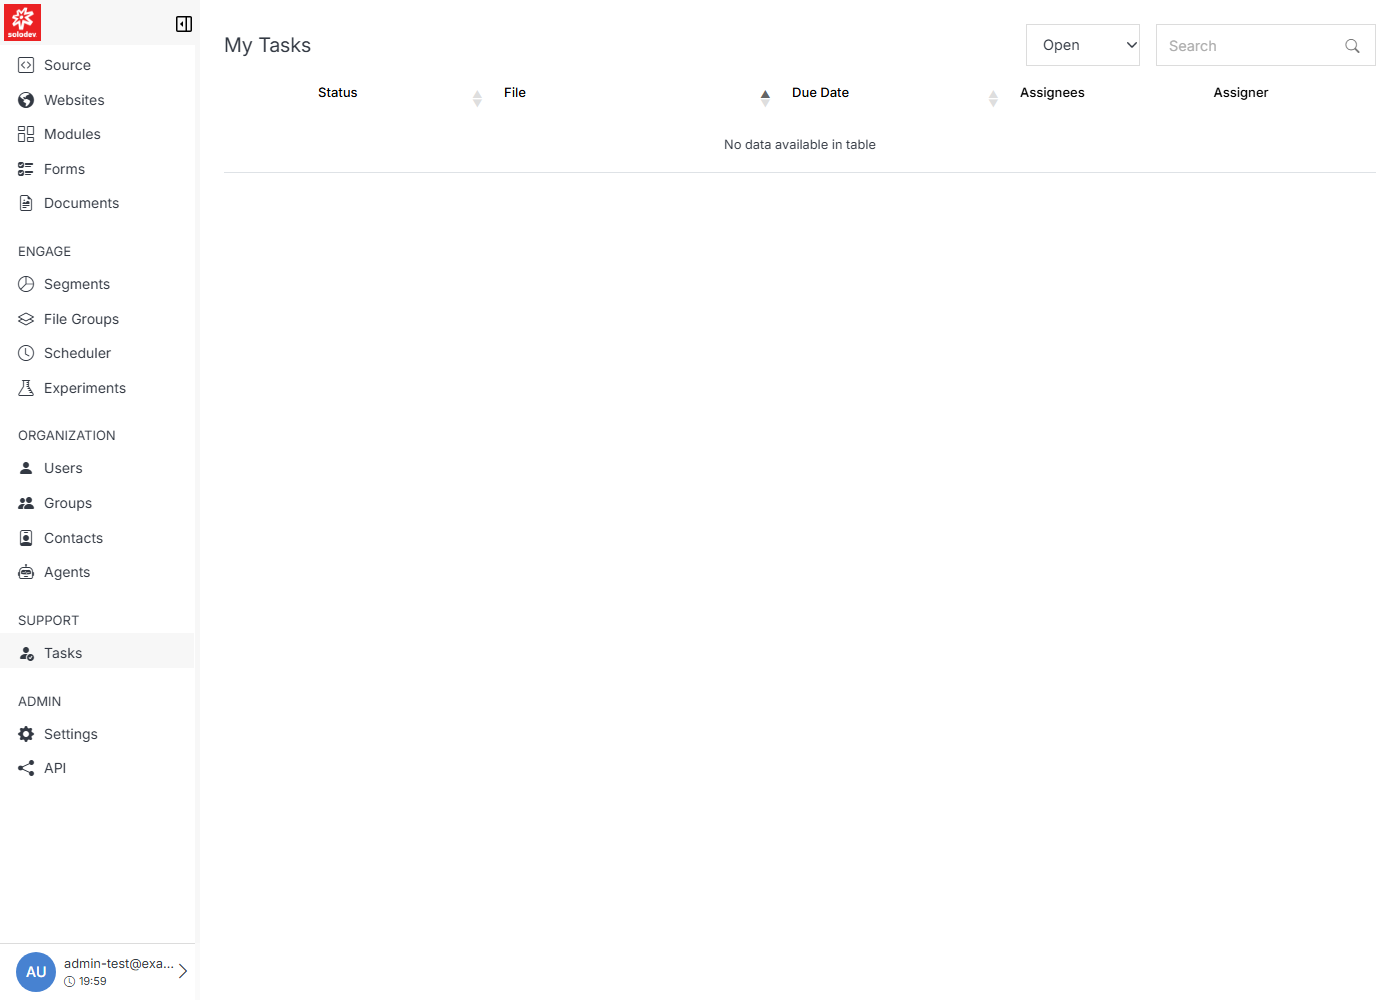
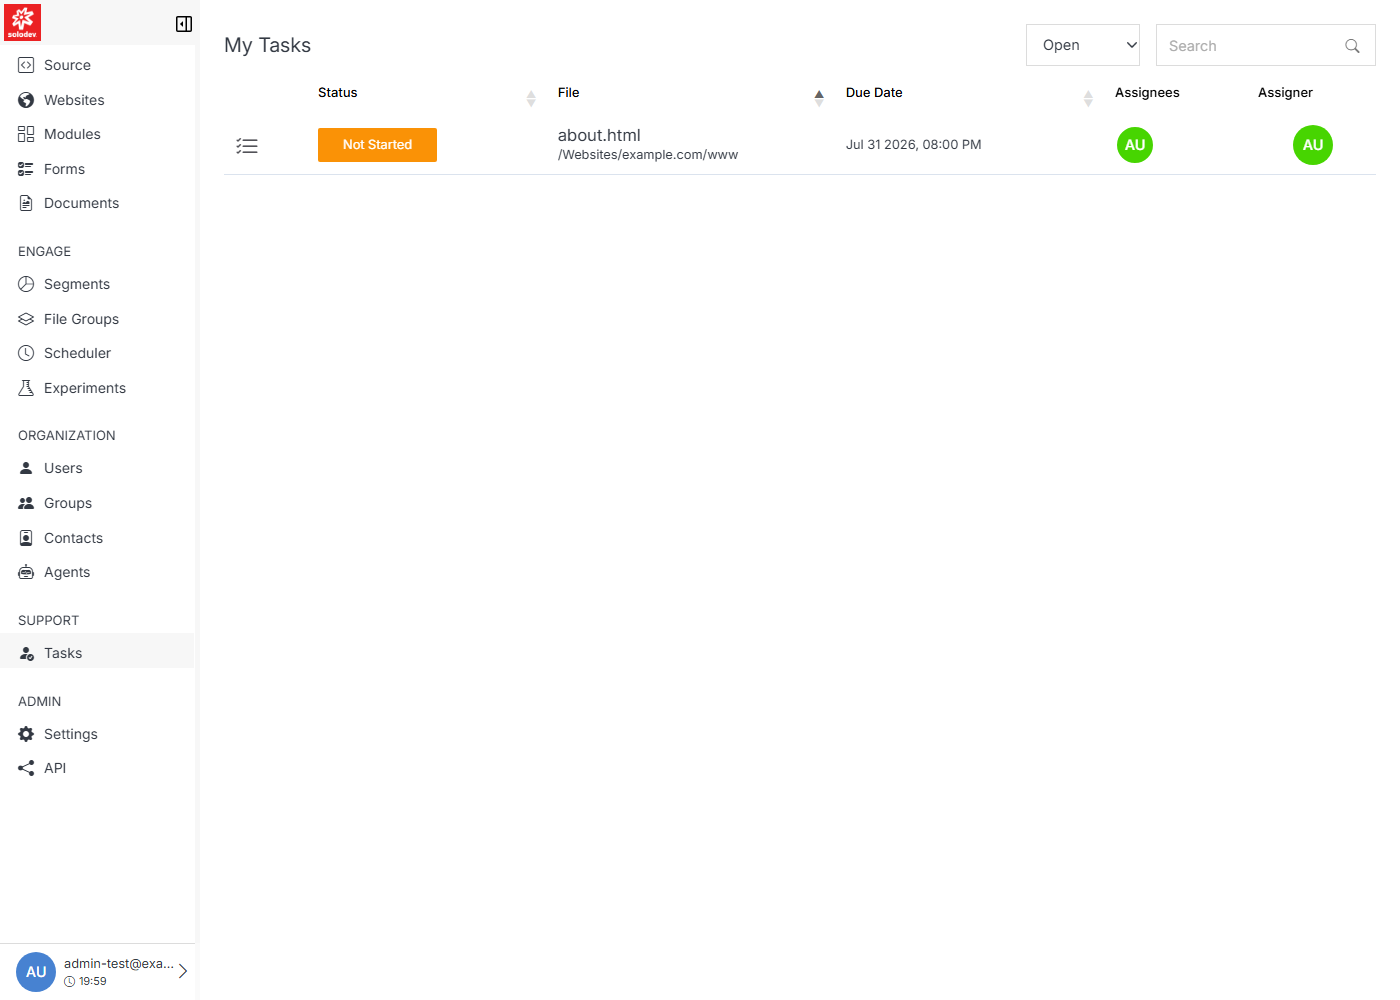
docs(support): demo on an HTML page, show a real populated task list
Recaptured every Tasks screenshot on a plain HTML file (about.html)
instead of an STML page, and this time with a real task actually
created and assigned end to end - My Tasks now shows a genuine row
instead of the empty state.

Creating that task live surfaced a real correction: the "New Task" box
isn't a task title field, it's the task's opening note - tasks are
identified in the list by which file/page/entry they're attached to,
not a custom name. Fixed Add Task's field description accordingly, and
marked due date and assignee as the required fields they turned out to
be (both blocked submission with a validation error until set).

Also got a real screenshot of the actual Update Task controls (Status
dropdown, Hours Spent, comment box) by opening the task after creating
it - the previous version of this page had no screenshot of the real
update UI at all. Demo task removed from the environment after capture.

diff --git a/src/Support/Tasks/Update Task/index.md b/src/Support/Tasks/Update Task/index.md
@@ -2,11 +2,13 @@
 
 Open a task from [My Tasks](/support/tasks/) or from its object's task panel to post updates, change its status, and log hours.
 
+<p><img src="../../../../images/support/update-task-panel.png" alt="An open task, with its activity feed and Status/Hours Spent/comment controls"></p>
+
 **Name** | **Description**
 :--- | ---
-Post Update | Ask a question or post an update in the field at the bottom of the task. Visible to every assignee and the task's creator.
-Status | Change the task's status from the menu.
+Status | Change the task's status from the dropdown.
 Hours Spent | Log the hours spent on this particular update &mdash; hours across all updates are totaled and shown at the top of the task.
+Add a comment | Ask a question or post an update. Visible to every assignee and the task's creator.
 
 !!! Note:
 A task can be set to any of these statuses:
@@ -22,7 +24,7 @@ A task can be set to any of these statuses:
 - **Not Approved**
 !!!
 
-Click **Submit** once you've posted a question or update, changed the status, and/or logged hours &mdash; each can be updated independently of the others.
+Click **Submit** once you've changed the status, logged hours, and/or posted a comment &mdash; each can be updated independently of the others.
 
 !!! Tip:
 Completing a task can trigger its own automation &mdash; see [Workflow](/admin/settings/workflow/)'s Task-type triggers.

diff --git a/src/Support/Tasks/Add Task/index.md b/src/Support/Tasks/Add Task/index.md
@@ -2,13 +2,13 @@
 
 Open the page, file, or module entry the task is about, then click the people icon in the top-right of its editor toolbar to open its task panel. Click **+ Add task**.
 
-<p><img src="../../../../images/support/add-task-form.png" alt="New Task form: name, due date, and assignee"></p>
+<p><img src="../../../../images/support/add-task-form.png" alt="New Task form: note, due date, and assignees"></p>
 
 **Name** | **Description**
 :--- | ---
-New Task | Type a name for the task in the box.
-Calendar icon | Set a due date.
-Assignee icon | Start typing a name to add one or more assignees.
+Note box | The task's opening note &mdash; what needs to be done. Tasks aren't given a separate title; they're identified in [My Tasks](/support/tasks/) by which file, page, or entry they're attached to.
+Calendar icon | Set a due date. Required.
+Assignee icon | Start typing a name and select from the list to add one or more assignees. Required.
 
 Click **Submit task**. Every assignee automatically receives an email with the task details.
 

diff --git a/src/Support/Tasks/index.md b/src/Support/Tasks/index.md
@@ -1,8 +1,8 @@
 # Tasks
 
-Tasks are always attached to a real object &mdash; a page, a file, or a module entry (a Datatable row, a Calendar entry) &mdash; rather than living in a separate project-management tool. Open any object's editor and click the people icon in the toolbar to see and manage its tasks.
+Tasks are always attached to a real object &mdash; a page, a file, or a module entry (a Datatable row, a Calendar entry) &mdash; rather than living in a separate project-management tool. Open any object's editor and click the people icon in the toolbar to see and manage its tasks. The same panel works the same way whether the object is an STML page or a plain HTML file.
 
-<p><img src="../../../images/support/document-tasks-panel.png" alt="Task panel on a real page, showing Add task and the activity feed"></p>
+<p><img src="../../../images/support/document-tasks-panel.png" alt="Task panel on about.html, showing a real assigned task and its activity feed"></p>
 
 ## My Tasks
 
